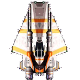
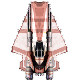
img Rowlon

diff --git a/source/server/model/ships/raiders/Raiderrowlon.php b/source/server/model/ships/raiders/Raiderrowlon.php
@@ -8,7 +8,7 @@ class Raiderrowlon extends FighterFlight{
         $this->faction = "Raiders";
         $this->phpclass = "Raiderrowlon";
         $this->shipClass = "Rowlon Armored Fighters";
-        $this->imagePath = "img/ships/UsuuthRowlon.png";
+        $this->imagePath = "img/ships/Rowlon.png";
        	$this->isd = 1981;
 	    
        	
@@ -37,8 +37,8 @@ class Raiderrowlon extends FighterFlight{
             $armour = array(2, 1, 2, 2);
             $rowlon = new Fighter("Rowlon", $armour, 8, $this->id);
             $rowlon->displayName = "Rowlon";
-            $rowlon->imagePath = "img/ships/UsuuthRowlon.png";
-            $rowlon->iconPath = "img/ships/UsuuthRowlon_Large.png";
+            $rowlon->imagePath = "img/ships/Rowlon.png";
+            $rowlon->iconPath = "img/ships/Rowlon_Large.png";
                        
 			$gun = new LightParticleBeam(330, 30, 2);					   
 			$gun->displayName = "Light Particle Projector";
